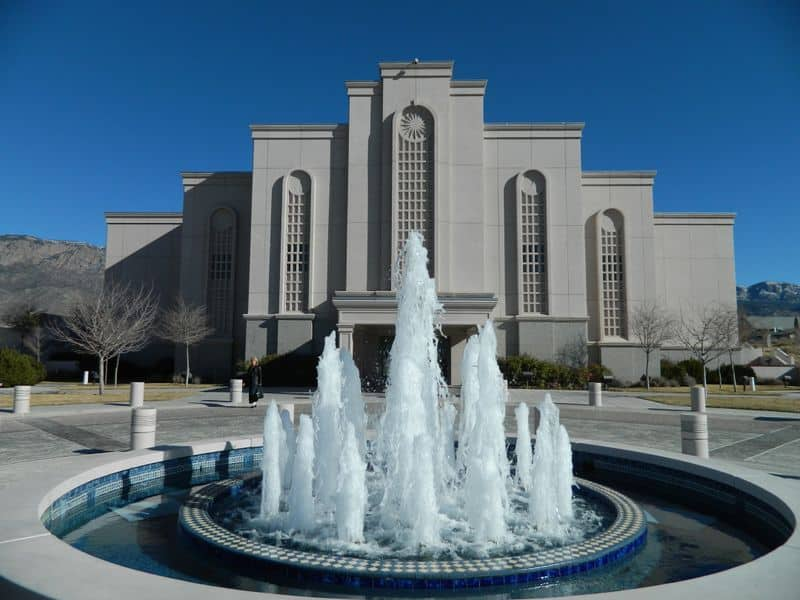
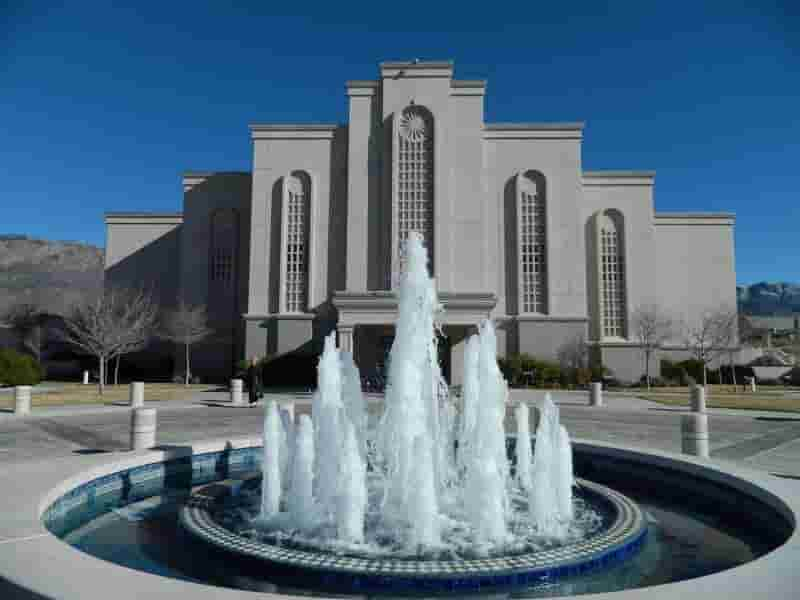
transfer size of images adjusted

diff --git a/temples.html b/temples.html
@@ -35,11 +35,11 @@
         <h2 class="title-name">Home</h2>
         <div class="temple-image">
             <figure>
-                <img src="images/aba_nigeria_temple_lds.jpeg" alt="Aba Nigeria Temple">
+                <img src="images/aba_nigeria_temple_lds.jpg" alt="Aba Nigeria Temple">
                 <figcaption>Aba Nigeria Temple</figcaption>
             </figure>
             <figure>
-                <img src="images/accra_ghana_temple_lds.jpeg" alt="Accra Ghana Temple">
+                <img src="images/accra_ghana_temple_lds.jpg" alt="Accra Ghana Temple">
                 <figcaption>Accra Ghana Temple</figcaption>
             </figure>
             <figure>
@@ -55,7 +55,7 @@
                 <figcaption>Anchorage Temple</figcaption>
             </figure>
             <figure>
-                <img src="images/apia_samoa_temple_lds.jpeg" alt="Apia Samoa Temple">
+                <img src="images/apia_samoa_temple_lds.jpg" alt="Apia Samoa Temple">
                 <figcaption>Apia Samoa Temple</figcaption>
             </figure>
             <figure>
